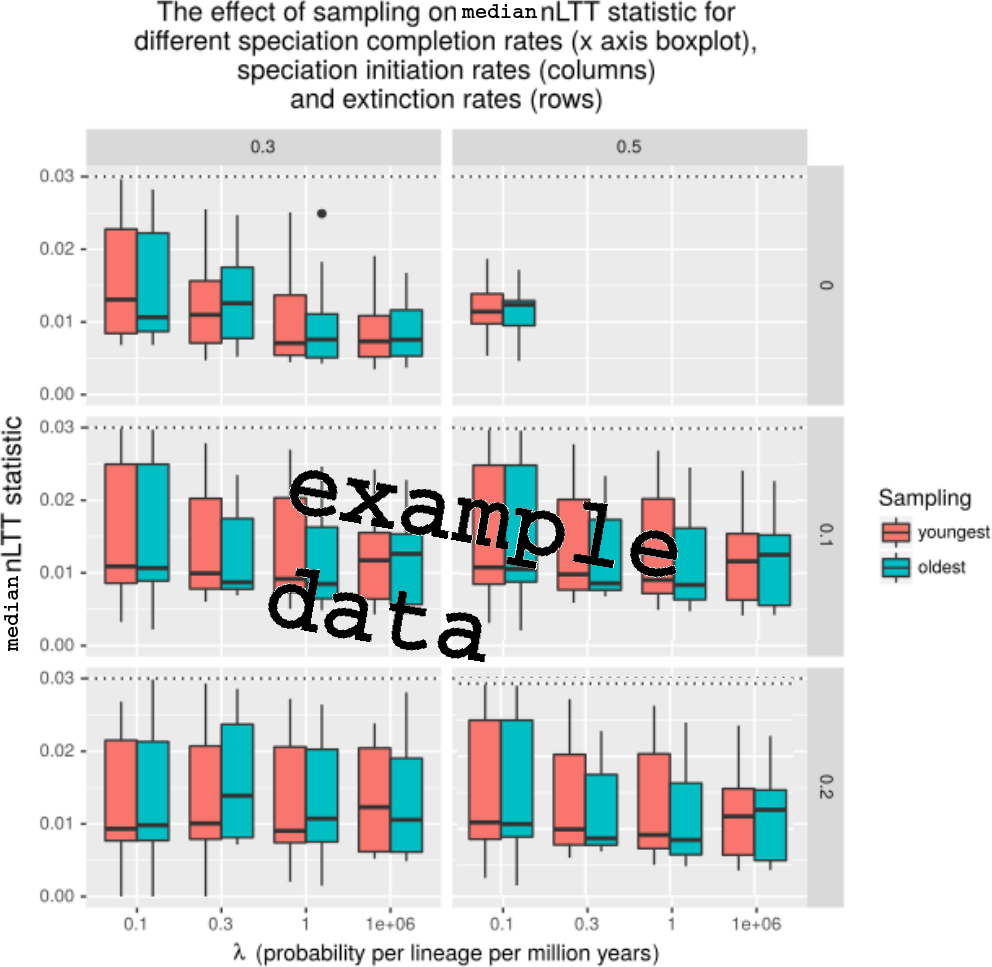
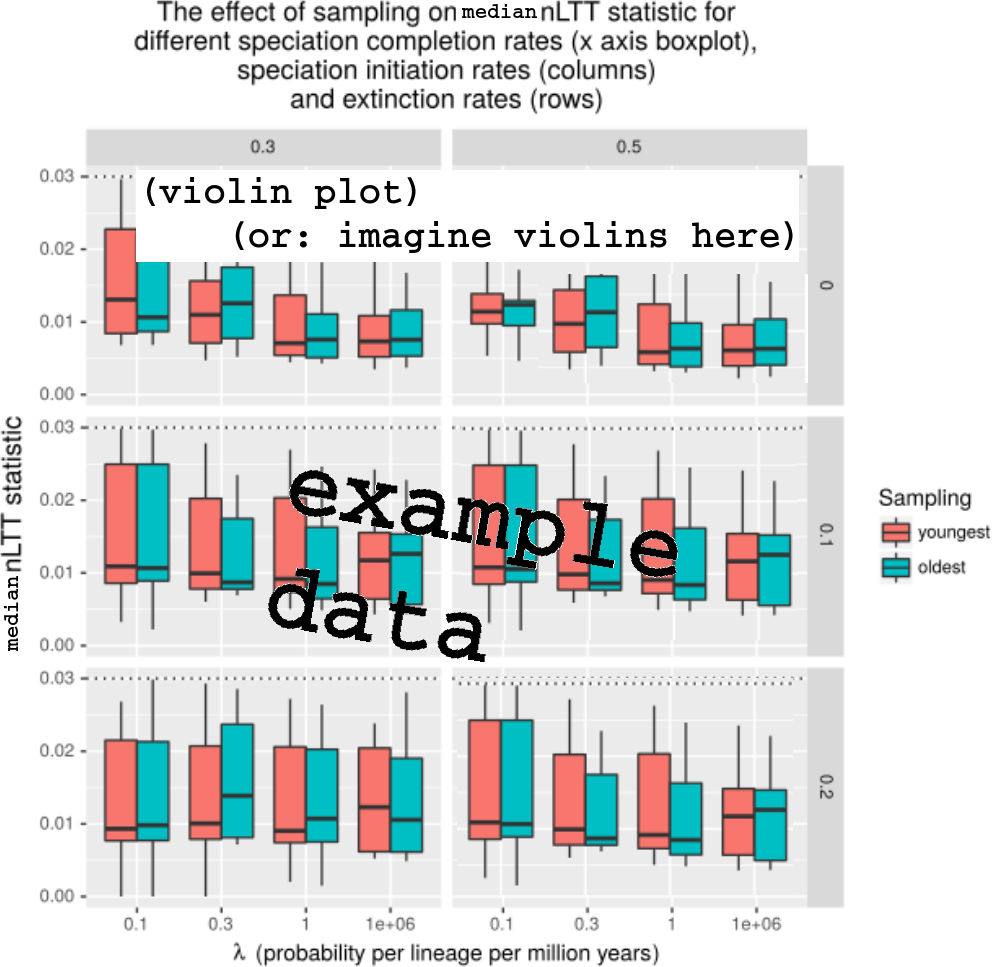
Feedback, thanks @rsetienne

Changed region(s): [[0.5312, 0.2172, 0.8125, 0.4033], [0.125, 0.1861, 0.5, 0.2792]]

diff --git a/article.tex b/article.tex
@@ -129,7 +129,7 @@
   % in the first paragraph if the editor considers that the accessibility of the paper is significantly enhanced
   % by their inclusion. Under these circumstances, the length of the paragraph can be up to 300 words.
   % (The above example is 190 words without the final section, and 250 words with it).
-  We conclude that ...
+  We conclude that in general [something], and the effect of sampling is [something]. 
 
   % Does not seem to fit here: 
   %  
@@ -217,6 +217,12 @@ This exploratory research's goal is to produce a
 useful and balanced data set, that quantifies the inference error 
 we make from choosing the incorrect prior. In this context, 
 we measure the error made on PBD phylogenies, when using a BD prior.
+In brief, we simulate protracted phylogenies using the protracted birth-death process,
+from those phylogenies sample a species tree. From that species tree, 
+we simulate a DNA sequence alignment. Then we let BEAST infer a phylogeny 
+from these alignments using the standard birth-death prior. 
+We compare the posterior phylogenies to the species tree using the nLTT statistic.
+
 
 The parameter space the data set explores is inspired on 
 [Etienne et al, 2014] for two reasons: (1) the academic
@@ -240,7 +246,7 @@ in which $0.4$ is a new extinction rate.
 We investigate these parameters in a factorial fashion, except for
 (1) those combinations in which the extinction rate equals or exceeds
 the speciation initiation rate, and (2) the difference between
-speciation initiation rate and extinction rate exceeds 0.8. This is
+speciation initiation rate and extinction rate exceeds $0.8$. This is
 done to prevent overly taxon-poor and taxon-rich phylogenies respectively.
 
 From each biological parameter set, a protracted birth-death tree is simulated,
@@ -264,8 +270,9 @@ nucleotide substitution model, in which all nucleotide-to-nucleotide transitions
 are equally likely. Although this may seem as a simplification, in our Bayesian
 inference (see below) we can use this exact site model as a prior, which we 
 know is the truth.
-The DNA sequence length and mutation rate was chosen as such to provide one
-nucleotide change per 1000 years per lineage. As our time unit is in 
+The DNA sequence length and mutation rate was chosen as such to provide a
+resolution of a 1000 years, that is, to have one expected nucleotide change 
+per 1000 years per lineage on average. As our time unit is in 
 millions of years, and our crown age is 15 million years,
 this equates to a rate of $\frac{1000}{15}$ nucleotide substitutions 
 changes per time unit per lineage. To provide for each substitution being unique,
@@ -336,44 +343,32 @@ The file with the summarized data will provide summary statistics of the raw
 data. Each row will contain a parameter set, summary statistics and other
 measurements. See the appendix, chapter 'Data set specifications', for the full list.
 
-To visualize the data set, we will produce two figures.
-The first figure will display the distribution 
-of median nLTT statistics per combination of speciation initiation, speciation
-completion and extinction rate. We will use the median nLTT statistic over 
-summing nLTT statistic distributions, as we think this will give the cleanest
-visualization [NOTE: I am unconvinced, wouldn't a violin plot would
-be better?]. We will use the median nLTT statistic, instead of the mean, as
-we expect the distribution of nLTT statistics not to be symmetrical. The distribution
-of median nLTT statistics is displayed per biological parameter set in a box-plot,
-to shown of that distribution as needed, without showing an overly amount of detail
-regarding that distribution. 
-The second figure will show the distribution of median nLTT statistics per expected
-mean duration of speciation. The expected mean duration of parameter can be calculated
-with equation 19 of [Etienne \& Rosidell 2012] and is a combination of the three
-biological parameters combined to their relevant biological effect. Through these
-points, we'll fit a straight line (we have no reason to expect an effect of
-higher order) and a locally weighted scatterplot smoothing (LOESS) 
-curve, which is a non-parametric fit to expose potential higher order effects.
-Additionally, we'll draw a horizontal line to the average nLTT 
-value (over all replicates) of those simulations with instantaneous speciation, 
-which serves as a baseline of
-the inference error made.
+Our results will show the general effect of the biological parameters (speciation initiation, 
+speciation completion and extinction rate) using the balanced data set,
+and the effect of sampling using the data set conditioned on sampling having an effect.
+In both cases, the nLTT statistics distribution will be plotted per
+biological parameter set using a violin plot. A violin plot is chosen to
+maintain information about the distribution. When displaying the effect of a 
+sampling regime, per regime, the nLTT statistics distribution is shown per
+biological parameter set.
 
 %%%%%%%%%%%%%%%%%%%%%%%%%%%%%%%%%%%%%%%%%%%%%%%%%%%%%%%%%%%%%%%%%%%%%%%%%%%%%%%%%%%%%%
 \section{Results}
 %%%%%%%%%%%%%%%%%%%%%%%%%%%%%%%%%%%%%%%%%%%%%%%%%%%%%%%%%%%%%%%%%%%%%%%%%%%%%%%%%%%%%%
 
 \begin{figure}[!htbp]
-  \includegraphics[width=0.8\textwidth]{nltt_stats_per_setup.png}
+  \includegraphics[width=0.8\textwidth]{fig_nltt_stats_per_setup.png}
   \caption{
-    median nLTT statistic distribution per parameter setting
+    nLTT statistic distribution per biological parameter set, using the
+    balanced data set
   }
 \end{figure}
 
 \begin{figure}[!htbp]
-  \includegraphics[width=0.8\textwidth]{nllt_stats_per_mean_dur_spec.png}
+  \includegraphics[width=0.8\textwidth]{fig_sampling.png}
   \caption{
-    median nLTT statistic distribution per mean duration of speciation
+    nLTT statistic distribution per biological parameter set per sampling
+    regime, using the data set conditioned on sampling regime having an effect 
   }
 \end{figure}
 
@@ -394,7 +389,11 @@ and for providing access to the Peregrine high performance computing cluster.
 \section{Authors' contributions}
 %%%%%%%%%%%%%%%%%%%%%%%%%%%%%%%%%%%%%%%%%%%%%%%%%%%%%%%%%%%%%%%%%%%%%%%%%%%%%%%%%%%%%%
 
-%%%%%%%%%%%%%%%%%%%%%%%%%%%%%%%%%%%%%%%%%%%%%%%%%%%%%%%%%%%%%%%%%%%%%%%%%%%%%%%%%%%%%%
+RJCB and RSE conceived the idea for this experiment and package. 
+RJCB created and tested the experiment and package, 
+and wrote the first draft of the manuscript. 
+RSE contributed substantially to revisions.
+
 % Bibliography
 %%%%%%%%%%%%%%%%%%%%%%%%%%%%%%%%%%%%%%%%%%%%%%%%%%%%%%%%%%%%%%%%%%%%%%%%%%%%%%%%%%%%%%
 % MEE style
@@ -417,6 +416,7 @@ and for providing access to the Peregrine high performance computing cluster.
     $b = b_g = b_i$       & Speciation initiation rate & 0.1, 0.5, 1.0 \\
     $\lambda$             & Speciation completion rate & 0.1, 0.3, 1.0, $10^6$ \\
     $\mu = \mu_g = \mu_i$ & Extinction rate & 0.0, 0.1, 0.2, 0.4 \\
+    \hline
     $t_c$                 & Crown age & 15 \\
     $\sigma_c$            & Standard deviation around crown age & 0.001 \\
     $M$                   & Sampling method & Youngest for odd $R_i$, oldest for even $R_i$ \\
@@ -429,7 +429,8 @@ and for providing access to the Peregrine high performance computing cluster.
     \hline
   \end{tabular}
   \caption{
-    Overview of the 12 simulation parameters.
+    Overview of the 12 simulation parameters. Above the horizontal line is 
+    the biological parameter set.
   }
   \label{table:simulation_parameters}
 \end{table}

diff --git a/README.md b/README.md
@@ -1,10 +1,3 @@
 # flechette_article
-Article for flechette
 
-> Hoi Richel,
-> 
-> Je zit zeker op het juiste spoor. Ik heb (natuurlijk) al wel veel kleine tekstuele opmerkingen maar ik beperk me nu tot 1 algemene: je begint al in detail over de parameterwaarden te spreken (dat je die van Etienne et al 2014 overneemt), terwijl de lezer nog geen enkel idee heeft wat je nu eigenlijk gaat doen. Dus eerst het doel schetsen (vergelijken echte protracted boom met BEAST-posterior boom afgeleid uit de alignments die op de echte boom gesimuleerd zijn voor verschillende parameterwaarden, en dan de details. En het nut van Figuur 2 begrijp ik nog niet helemaal.
-> 
-> Als je overigens violin plots in Figuur 1 wil gebruiken, ben ik zeker voor!
-> 
-> Groet, Rampal
+Article for `flechette`, the remake of `WIRITTTE`.
